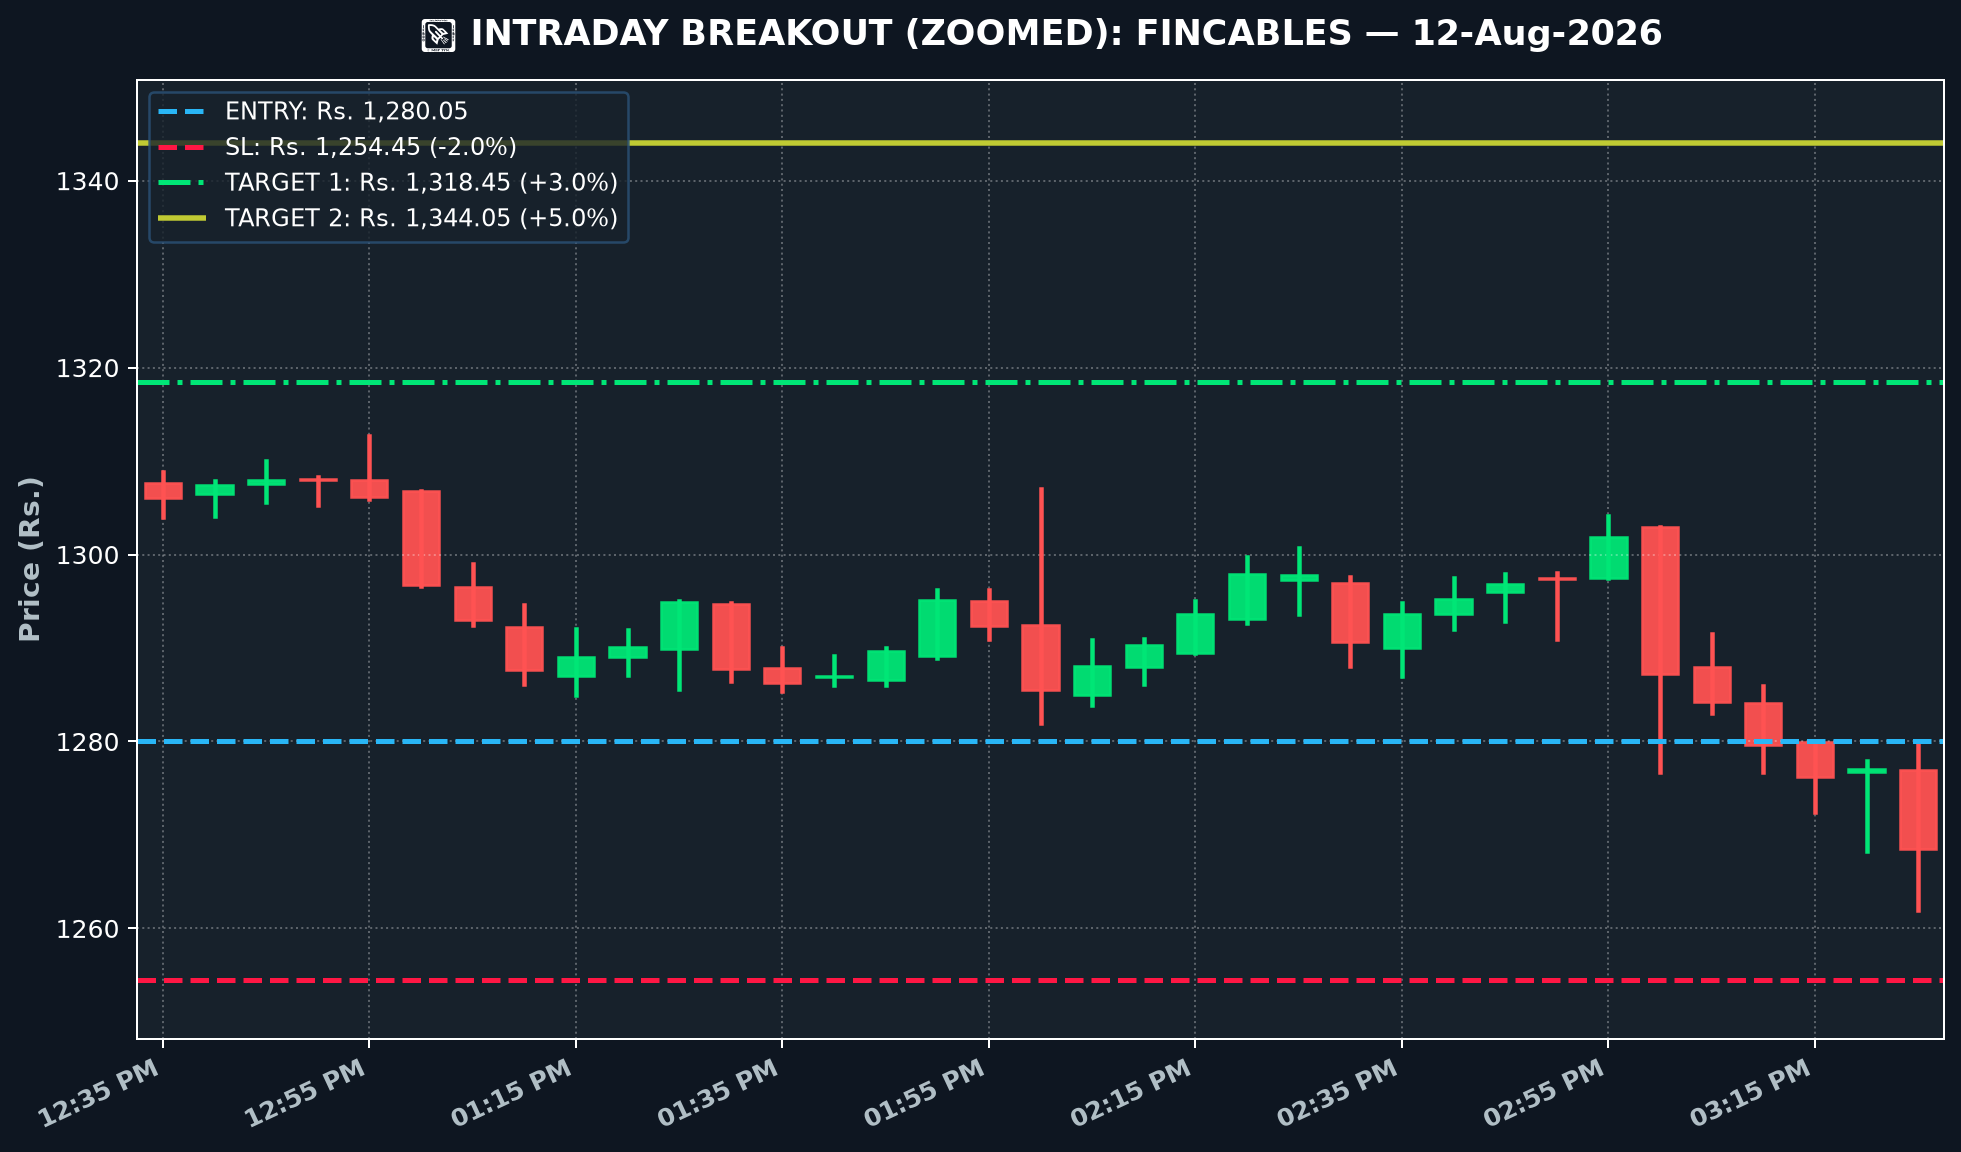
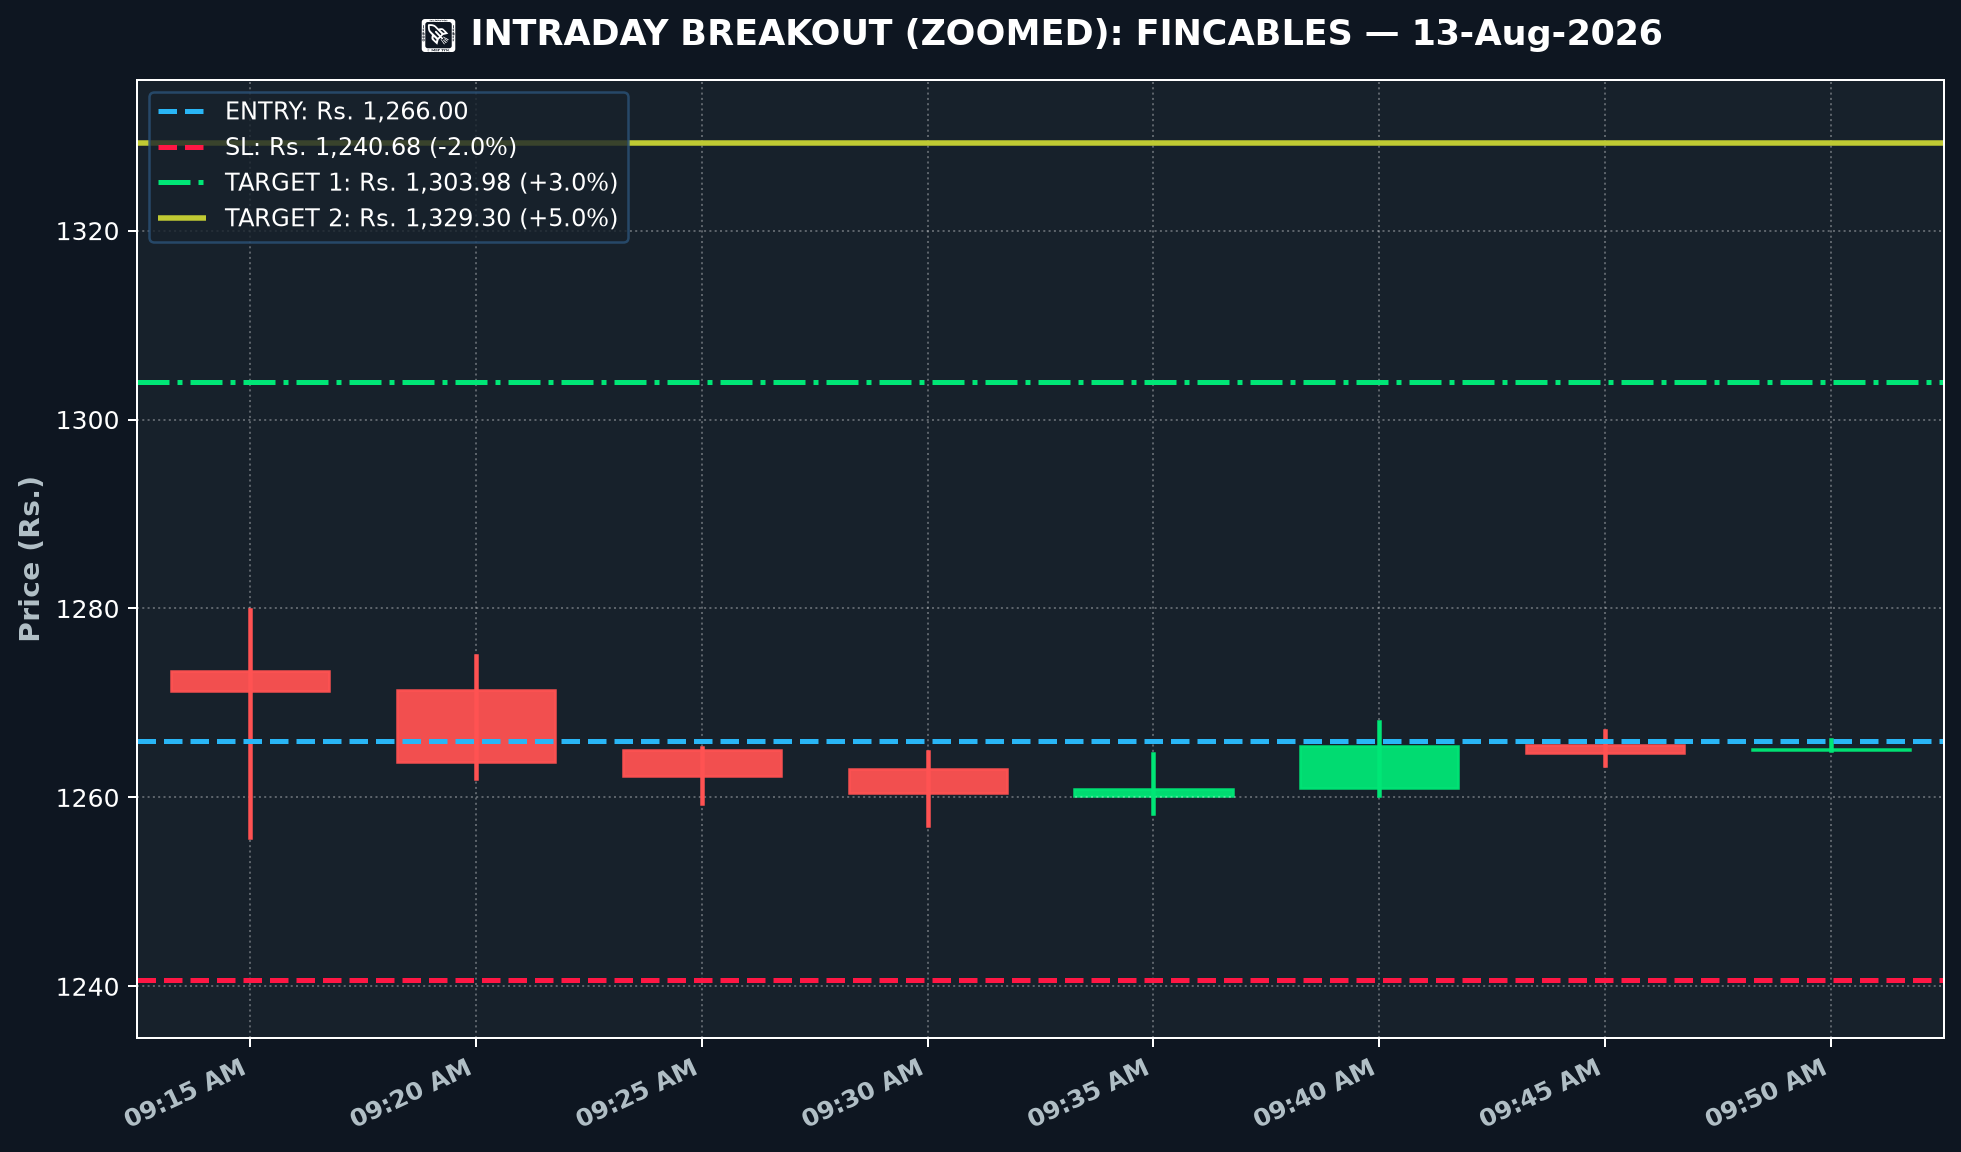
Add interactive /stock and /scan commands in Telegram bot to trigger instant live market scan on demand

diff --git a/telegram_bot.py b/telegram_bot.py
@@ -1,10 +1,14 @@
 import logging
+import os
+import asyncio
 from datetime import datetime
 from telegram import Update
 from telegram.ext import ApplicationBuilder, CommandHandler, ContextTypes
 
 import config
 import logger
+import alerts
+import main as main_orchestrator
 
 # Setup logging
 logging.basicConfig(
@@ -17,9 +21,27 @@ async def start_cmd(update: Update, context: ContextTypes.DEFAULT_TYPE):
     msg = (
         "Welcome to the Intraday Stock Pick Bot! 🚀\n\n"
         "I provide daily breakout alerts and performance tracking.\n"
-        "Use /help to see available commands."
+        "⚡ Send /stock to run a live scan and get today's stock picks instantly!\n"
+        "Use /help to see all commands."
     )
     await update.message.reply_text(msg)
+
+async def stock_cmd(update: Update, context: ContextTypes.DEFAULT_TYPE):
+    """Handle /stock or /scan command — triggers a live market scan on demand."""
+    await update.message.reply_text("⚡ *Scanning live NSE market data...* Please wait ~10 seconds.", parse_mode='Markdown')
+    
+    try:
+        # Run main pipeline in background thread to avoid blocking asyncio event loop
+        loop = asyncio.get_running_loop()
+        summary = await loop.run_in_executor(None, main_orchestrator.run_pipeline)
+        
+        picks_count = summary.get('total_picks', 0)
+        if picks_count == 0:
+            await update.message.reply_text("📭 No qualifying stock setups found right now (Market Regime / RS filter active).")
+        else:
+            await update.message.reply_text(f"✅ *Scan complete!* Sent {picks_count} stock picks with zoomed candlestick charts below.", parse_mode='Markdown')
+    except Exception as e:
+        await update.message.reply_text(f"⚠ Error running live market scan: `{e}`", parse_mode='Markdown')
 
 async def status_cmd(update: Update, context: ContextTypes.DEFAULT_TYPE):
     """Handle /status command."""
@@ -27,7 +49,7 @@ async def status_cmd(update: Update, context: ContextTypes.DEFAULT_TYPE):
     picks = logger.get_today_picks(today_str)
     
     if not picks:
-        await update.message.reply_text(f"📭 No picks recorded for today ({today_str}).")
+        await update.message.reply_text(f"📭 No picks recorded for today ({today_str}). Send /stock to trigger a live scan!")
         return
         
     msg = f"📊 *Today's Status ({today_str})*\n━━━━━━━━━━━━━━━━━━━━━━━\n"
@@ -69,7 +91,7 @@ async def picks_cmd(update: Update, context: ContextTypes.DEFAULT_TYPE):
     picks = logger.get_today_picks(today_str)
     
     if not picks:
-        await update.message.reply_text(f"📭 No picks recorded for today ({today_str}).")
+        await update.message.reply_text(f"📭 No picks recorded for today ({today_str}). Send /stock to run a live scan!")
         return
         
     msg = f"📋 *Detailed Picks ({today_str})*\n━━━━━━━━━━━━━━━━━━━━━━━\n"
@@ -80,12 +102,13 @@ async def picks_cmd(update: Update, context: ContextTypes.DEFAULT_TYPE):
         entry = pick.get('entry', 0.0)
         sl = pick.get('sl', 0.0)
         t1 = pick.get('target1', 0.0)
+        t2 = pick.get('target2', 0.0)
         outcome = pick.get('outcome', 'OPEN')
         pnl = pick.get('actual_pnl', 0.0) or 0.0
         
         msg += (
             f"*{symbol}* ({direction})\n"
-            f"Entry: ₹{entry:.2f} | SL: ₹{sl:.2f} | T1: ₹{t1:.2f}\n"
+            f"Entry: ₹{entry:.2f} | SL: ₹{sl:.2f} | T1: ₹{t1:.2f} | T2: ₹{t2:.2f}\n"
             f"Status: {outcome} | P&L: ₹{pnl:.2f}\n\n"
         )
         
@@ -95,11 +118,12 @@ async def help_cmd(update: Update, context: ContextTypes.DEFAULT_TYPE):
     """Handle /help command."""
     msg = (
         "🛠 *Available Commands*\n"
-        "/start - Welcome message\n"
-        "/status - Today's picks and running P&L\n"
-        "/picks - Detailed view of today's picks\n"
+        "/stock - Run live market scan & get stock picks instantly!\n"
+        "/scan - Trigger instant market scan\n"
+        "/picks - View today's detailed stock picks\n"
+        "/status - Today's picks & running P&L\n"
         "/weekly - Weekly performance summary\n"
-        "/help - Show this message"
+        "/help - Show this help menu"
     )
     await update.message.reply_text(msg, parse_mode='Markdown')
 
@@ -112,12 +136,14 @@ def main():
     app = ApplicationBuilder().token(token).build()
     
     app.add_handler(CommandHandler('start', start_cmd))
+    app.add_handler(CommandHandler('stock', stock_cmd))
+    app.add_handler(CommandHandler('scan', stock_cmd))
     app.add_handler(CommandHandler('status', status_cmd))
     app.add_handler(CommandHandler('weekly', weekly_cmd))
     app.add_handler(CommandHandler('picks', picks_cmd))
     app.add_handler(CommandHandler('help', help_cmd))
     
-    print('Bot is running... Press Ctrl+C to stop.')
+    print('Telegram Bot Listener is running... Press Ctrl+C to stop.')
     app.run_polling()
 
 if __name__ == '__main__':
